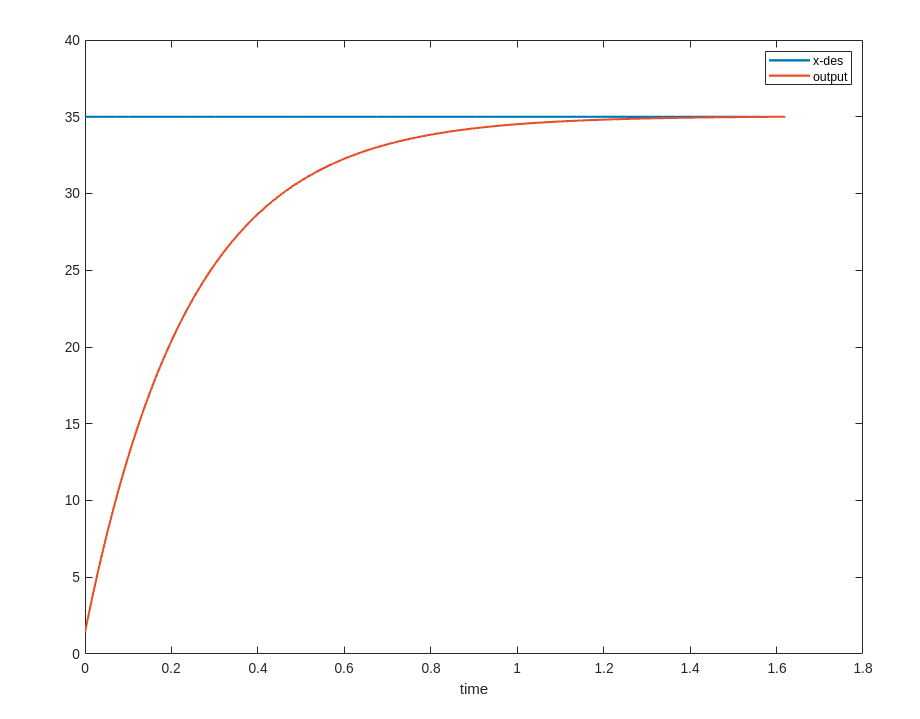
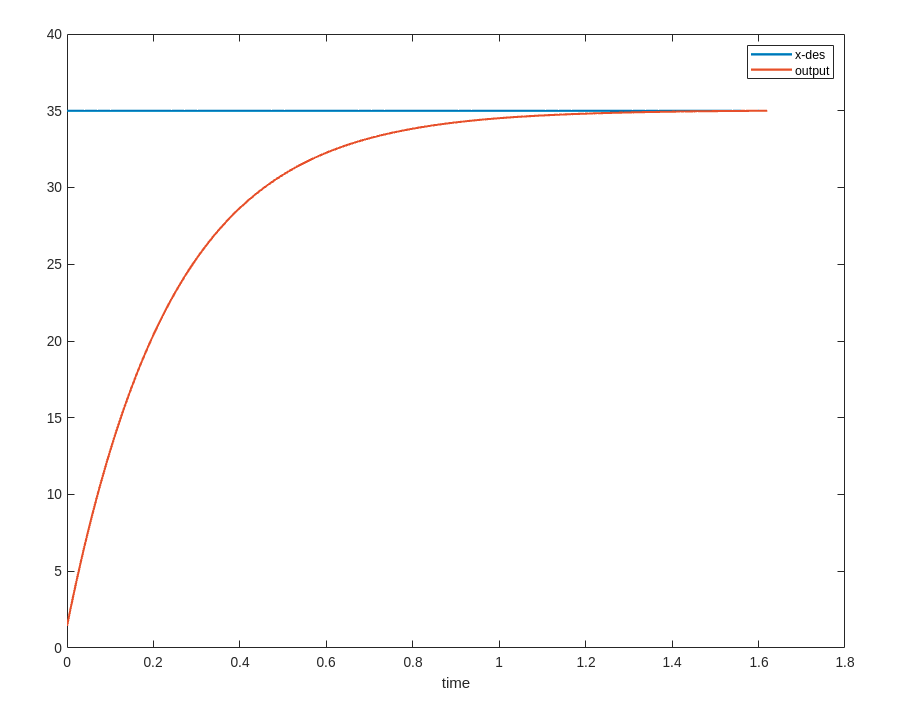
last_update

diff --git a/src/control_loop.cpp b/src/control_loop.cpp
@@ -10,7 +10,8 @@ CONTROLLER::CONTROLLER(float kp_, float kd_, float ki_) {
     
     _eps = 0.001;
     _initial_val = false;
-    CONTROLLER::system_start();
+
+    CONTROLLER::system_start(); 
 
     //run thread of our system
    
@@ -77,8 +78,7 @@ void CONTROLLER::loop() {
         pid = _kp*err+ _kd*err_d + _ki*err_i;
 
         //Output
-        //we assume that the system is an integrator 
-        output += pid*dt;
+        output = pid;
 
         cout << "PID error: " << err << " System output: " << output << endl;
         myfile.open ("Data.txt", ios::app);
